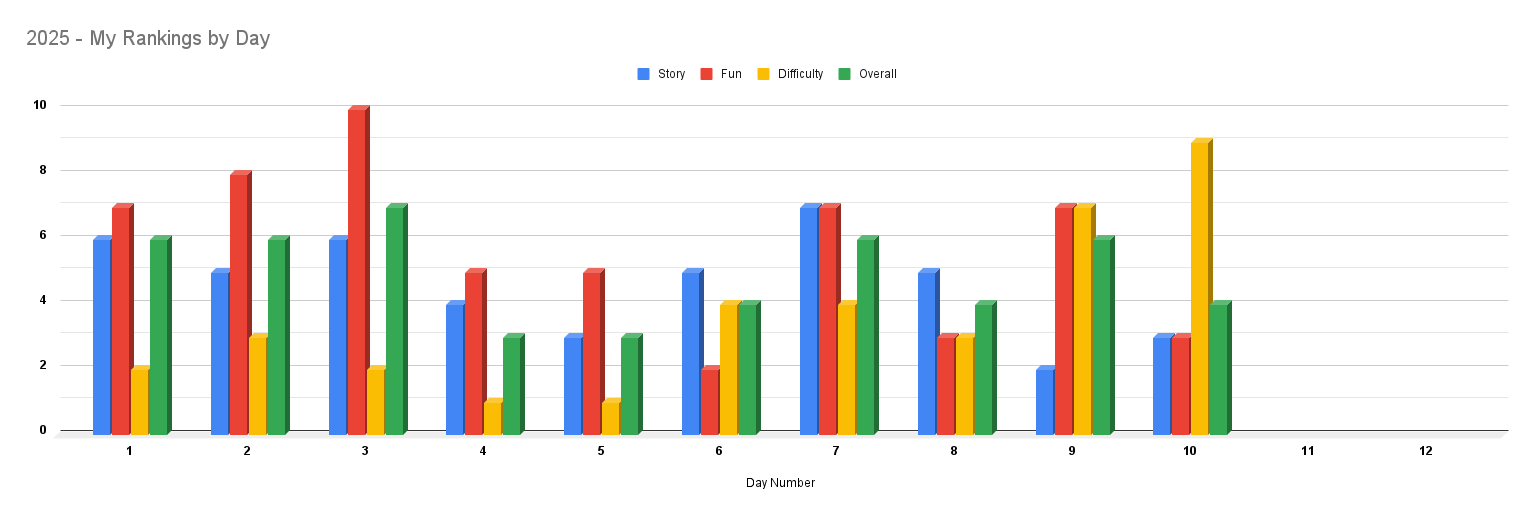
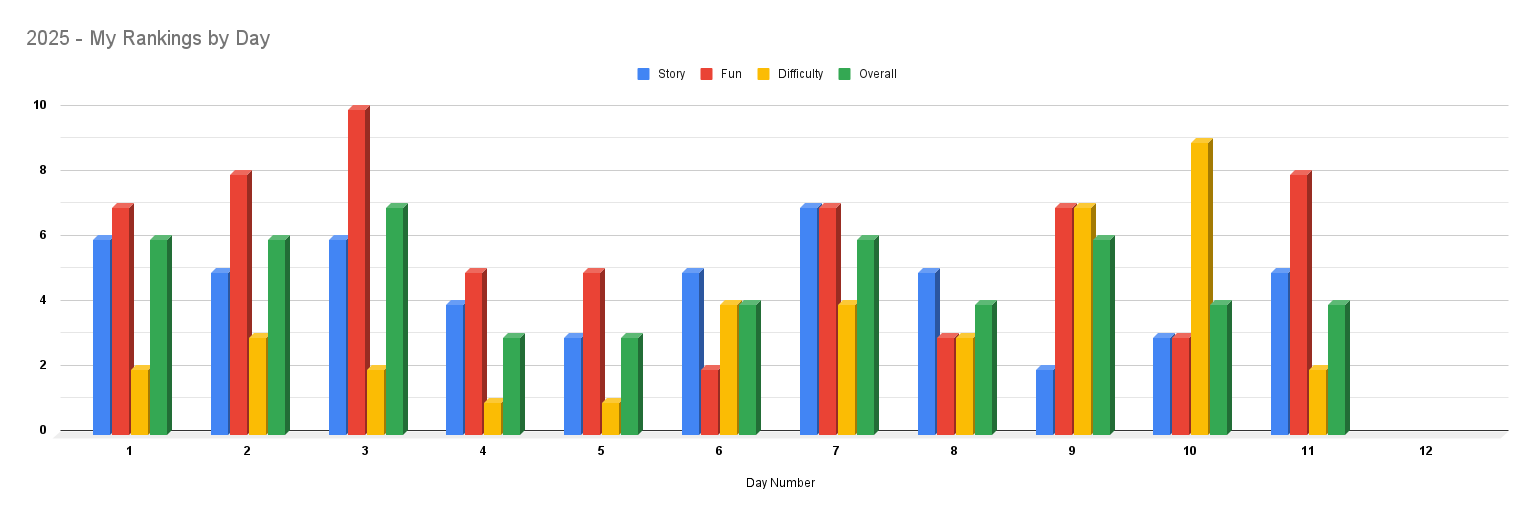
Day 11 done.

Changed region(s): [[0.8272, 0.3101, 0.8885, 0.8682]]

diff --git a/2025/python/day11/main.py b/2025/python/day11/main.py
@@ -1,16 +1,41 @@
+import functools
+
 from utils.timers import run_with_timer, get_data_with_timer
+from utils.utils import HashableDict
 
 
 def get_data(f):
-	return
+	dg = {}
+	for x in f.readlines():
+		parts = x.strip().split(":")
+		if parts[0] not in dg:
+			dg[parts[0]] = tuple()
+		dg[parts[0]] = dg[parts[0]] + tuple(parts[1].strip().split(" "))
+	return HashableDict(dg)
 
 
 def part_one(d):
-	return
+	nodes_to_visit = list(d["you"])
+	counter = 0
+
+	while nodes_to_visit:
+		next_node = nodes_to_visit.pop(0)
+		if next_node == "out":
+			counter += 1
+		else:
+			nodes_to_visit.extend(list(d[next_node]))
+	return counter
+
+
+@functools.cache
+def count_paths(d, f, dac, fft):
+	if f == "out":
+		return 1 if dac and fft else 0
+	return sum(count_paths(d, v, dac or (f == "dac"), fft or (f == "fft")) for v in d[f])
 
 
 def part_two(d):
-	return
+	return count_paths(d, "svr", False, False)
 
 
 def main(f="input.txt"):

diff --git a/2025/python/day11/test_main.py b/2025/python/day11/test_main.py
@@ -5,14 +5,12 @@ from day11.main import part_one, part_two, get_data
 
 class TestMain(unittest.TestCase):
 
-	def setUp(self):
+	def test_part_one(self):
 		self.sample_file = open("day11/sample.txt")
-
-	def tearDown(self):
+		self.assertEqual(5, part_one(get_data(self.sample_file)))
 		self.sample_file.close()
 
-	def test_part_one(self):
-		self.assertEqual(None, part_one(get_data(self.sample_file)))
-
 	def test_part_two(self):
-		self.assertEqual(None, part_two(get_data(self.sample_file)))
+		self.sample_file = open("day11/sample2.txt")
+		self.assertEqual(2, part_two(get_data(self.sample_file)))
+		self.sample_file.close()

diff --git a/2025/python/utils/utils.py b/2025/python/utils/utils.py
@@ -102,3 +102,7 @@ def get_overlapping_ranges(ranges):
 		else:
 			b.append(range(r[0], r[1]))
 	return b
+
+class HashableDict(dict):
+	def __hash__(self):
+		return hash(tuple(sorted(self.items())))

diff --git a/2025/python/day11/README.md b/2025/python/day11/README.md
@@ -1,23 +1,44 @@
 # Approach
 ### Data format
 
+I started with just using a `defaultdict` to read the file and create a map exactly how it is laid out in the input.
+The key was the left side of the `:` character, and the value was a `list` of all the values to the right of the `:`.
 
+This worked fine for part one, but I made a few adjustments in order to make part2 work using my standard framework
+for these puzzles. Namely, I needed to pass the dictionary into a memoized function...but that means the dictionary would
+have to be immutable/hashable.
+
+In order to accomplish this, I created a new helper class called `HashableDict` which extends the standard `dict` object
+and just adds a valid `hash` method. Now to make my dictionary immutable, I changed the values to a `tuple` and couldn't
+use `defaultdict` any more. It worked great, but had to use `tuple` methods while parsing.
 
 ### Part 1
-> __
+> _How many different paths lead from you to out?_
 
+This was very simple in that just start with the `you` entry in your data and add all of the values to a running list.
+Now, just start popping items off of the list one at a time. Whenever you remove an `out` node, increment a counter.
+If you remove any other node, just add all of that node's values to the list.
 
+Luckily there were no loops or anything that would cause it to just run forever in this input, and it ran very fast.
 
 ### Part 2
-> __
+> _How many of those paths visit both dac and fft?_
 
+Seems very straightforward, in that you just need to pretty much the same thing as part 1, but only return a `1` if you've
+visited two specific nodes before. The problem is there are a TON of possible paths with this new constraint because it starts on
+`svr` instead of `you`...which goes on for eternity.
 
+Enter memoization!
+
+If we just use memoization and change our logic to be a recursive function, it works BEAUTIFULLY.
+
+This puzzle went down so fast for me, I was actually quite shocked it worked so well!
 
 # Results
 
-|              |        Exec. Time (ms) - Python 3.13 |        Exec. Time (ms) - PyPy 3.11 |
-|--------------|-------------------------------------:|-----------------------------------:|
-| **Get Data** |                                      |                                    |
-| **Part One** |                                      |                                    |
-| **Part Two** |                                      |                                    |
-| **TOTAL**    |                                   ** |                                 ** |
+|              |     Exec. Time (ms) - Python 3.13 |     Exec. Time (ms) - PyPy 3.11 |
+|--------------|----------------------------------:|--------------------------------:|
+| **Get Data** |                             1.465 |                           1.065 |
+| **Part One** |                             1.066 |                           0.470 |
+| **Part Two** |                             1.804 |                           6.377 |
+| **TOTAL**    |                           *4.335* |                         *7.912* |
